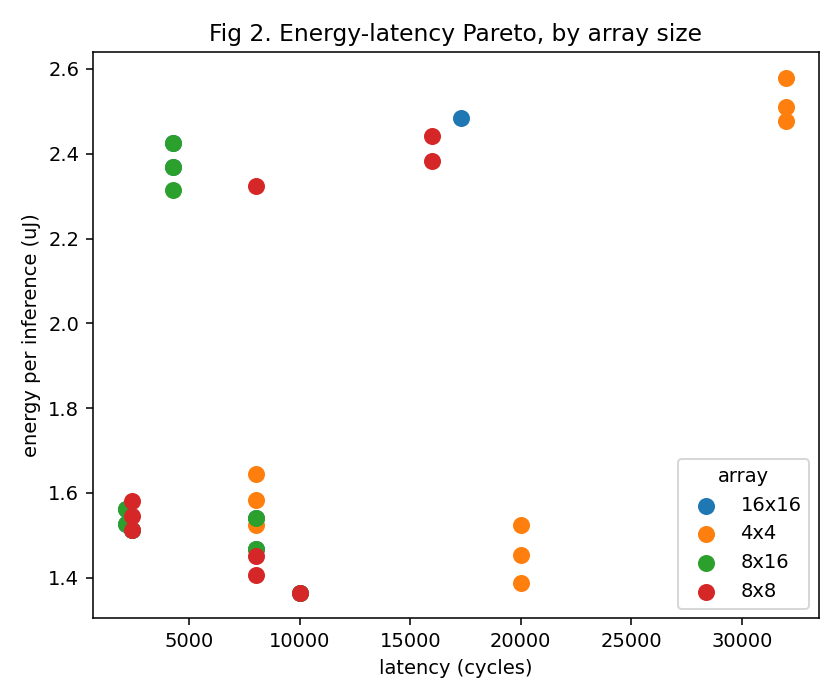
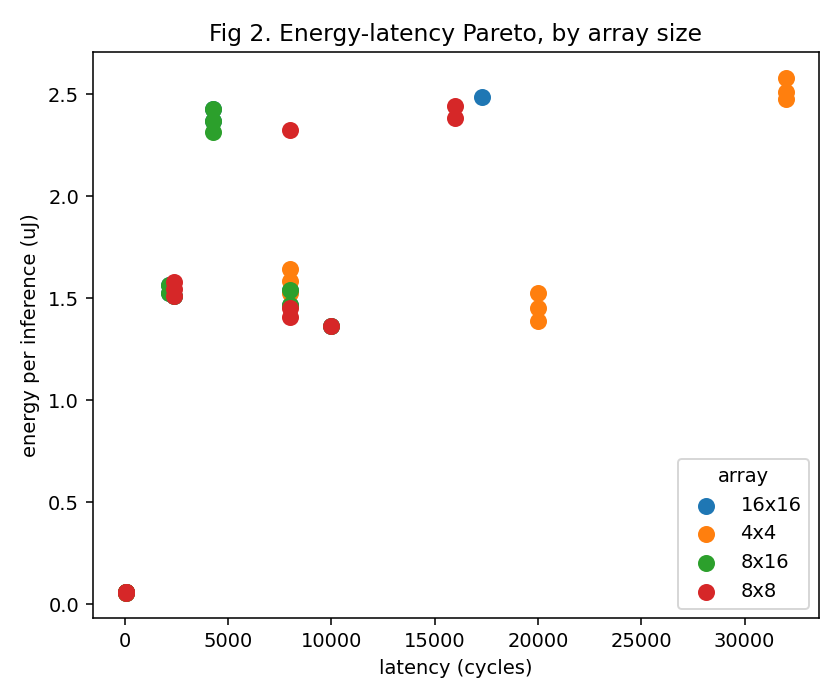
Ground workload in MLPerf Tiny model + real roofline + refined predictions
#1 Pin Docker image by digest (reproducibility; upstream `latest` drifts and
   already broke the kit's schema on first run).
#2 Ground layer shapes in the MLPerf Tiny KWS DS-CNN reference: add the FC
   classifier (64->12) and weight per-inference by real layer counts
   (std x1, depthwise x4, pointwise x4, fc x1). conv1 stride-2 documented as a
   stride-1 approximation (output dims + MACs already exact).
#3 Real roofline (fig1_roofline.png replaces the MACs stub): operational
   intensity (MACs/byte from DRAM operand footprints) vs achieved throughput.
   Depthwise (AI~3.5) and FC (AI~0.9) are memory-bound; standard/pointwise
   compute-bound -- the quantitative reason depthwise costs more than its MACs.
#4 Re-optimize the chosen point at mapper victory=3000: finds a 100%-util
   pointwise mapping the fast sweep missed. Refined per-inference prediction
   for 8x8/glb2048: energy 17.09 uJ, cycles 49656, area 0.143 mm2 (EDP -39%).

diff --git a/scripts/analyze.py b/scripts/analyze.py
@@ -15,6 +15,7 @@
 
 # %%
 import os
+import numpy as np
 import pandas as pd
 import matplotlib.pyplot as plt
 
@@ -37,18 +38,37 @@ df["pes"]   = df["meshX"] * df["meshY"]
 print(df.head())
 
 # %% ---- FIGURE 1: roofline ------------------------------------------------
-# Arithmetic intensity = MACs / bytes moved. Compute-bound layers sit under
-# the flat (peak-compute) roof; memory-bound layers under the slanted
-# (bandwidth) roof. You'll compute bytes-moved from the Timeloop stats; this
-# stub plots MACs per layer as a stand-in until you wire that in.
-fig, ax = plt.subplots(figsize=(6, 4))
-by_layer = df.groupby("layer")["macs"].first()
-ax.bar(by_layer.index, by_layer.values)
-ax.set_ylabel("MACs per inference")
-ax.set_title("Fig 1. Compute per layer type (roofline input)")
-plt.xticks(rotation=15)
+# Operational intensity = MACs / bytes moved (from the DRAM operand footprints,
+# so it's the algorithmic best case) on x; achieved throughput = MACs/cycle at
+# 1 GHz (GMAC/s) on y. Peak-compute roof = num_PEs x 1 GHz. The DRAM-bandwidth
+# roof is drawn from the EFFECTIVE bandwidth implied by the most memory-bound
+# layer (empirical, so every measured point sits on/under the roof). Layers left
+# of the ridge are MEMORY-BOUND -- this is where depthwise (low reuse) and the FC
+# land, which is the real reason depthwise costs more than its tiny MAC count.
+RP = df[(df["meshX"] == 8) & (df["meshY"] == 8) & (df["glb_depth"] == 2048)].copy()
+RP["throughput"] = RP["macs"] / RP["cycles"]                 # GMAC/s @ 1 GHz
+pes  = 8 * 8
+peak = float(pes)                                            # GMAC/s (1 GHz)
+bw   = float((RP["throughput"] / RP["arith_intensity"]).max())  # effective GB/s
+ridge = peak / bw
+fig, ax = plt.subplots(figsize=(6.8, 5))
+for _, r in RP.iterrows():
+    ax.scatter(r["arith_intensity"], r["throughput"], s=80, zorder=3)
+    ax.annotate(r["layer"].replace("conv_", ""),
+                (r["arith_intensity"], r["throughput"]),
+                textcoords="offset points", xytext=(6, 5), fontsize=9)
+xs = np.logspace(-0.4, 2, 200)
+ax.plot(xs, np.minimum(peak, bw * xs), "k--", lw=1.3,
+        label=f"roofline (peak {peak:.0f} GMAC/s, ~{bw:.0f} GB/s eff)")
+ax.axvline(ridge, color="grey", ls=":", lw=0.9)
+ax.text(ridge * 1.05, peak * 0.35, f"ridge\nAI={ridge:.1f}", fontsize=8, color="grey")
+ax.set_xscale("log"); ax.set_yscale("log")
+ax.set_xlabel("operational intensity (MACs / byte)")
+ax.set_ylabel("achieved throughput (GMAC/s @ 1 GHz)")
+ax.set_title("Fig 1. Roofline @ 8x8/glb2048 -- depthwise & FC are memory-bound")
+ax.legend(fontsize=8, loc="lower right"); ax.grid(True, which="both", alpha=0.3)
 plt.tight_layout()
-plt.savefig(os.path.join(ROOT, "fig1_compute.png"), dpi=140)
+plt.savefig(os.path.join(ROOT, "fig1_roofline.png"), dpi=140)
 
 # %% ---- FIGURE 2: Pareto frontier -----------------------------------------
 # Every design point as a dot; energy vs latency; color = array size.
@@ -84,7 +104,8 @@ print("headline: 'a bigger array is WORSE for this workload, here's the data.'")
 # Aggregate each design point across all three layers (weighted by how often
 # each layer type runs in the real network -- edit the weights to match your
 # actual DS-CNN layer counts).
-layer_weights = {"conv_standard": 1, "conv_depthwise": 4, "conv_pointwise": 4}
+layer_weights = {"conv_standard": 1, "conv_depthwise": 4, "conv_pointwise": 4,
+                 "conv_fc": 1}   # MLPerf Tiny DS-CNN: 1 conv + 4 DS blocks + FC
 df["w"] = df["layer"].map(layer_weights)
 agg = (df.assign(we=df["energy_uJ"] * df["w"], wc=df["cycles"] * df["w"])
          .groupby(["array", "glb_depth"])
@@ -103,25 +124,27 @@ print("    That reasoning IS the deliverable.")
 # Fill these in from your chosen design point, then git-commit this file with
 # a dated message BEFORE you write a line of Verilog. This turns Phase 3 into
 # a real experiment: predicted-vs-measured, not a story told after the fact.
-# DRAFT (review & edit before you trust it). Values are per-inference, layer-
-# weighted std x1 / depthwise x4 / pointwise x4 (edit layer_weights above to your
-# real DS-CNN layer counts). Design point 8x8 @ glb2048 chosen for the "small
-# array" reason from the analysis: DS-CNN's <=64 channels can't fill a big array,
-# so 8x8 keeps per-PE utilization high at the smallest area. NOTE: 8x16 @ glb2048
-# is marginally better on EDP at ~1.6x the area -- swap the design point below if
-# you'd rather optimize EDP over area, and re-pull the numbers from results.csv.
+# Design point 8x8 @ glb2048, chosen for the "small array" reason from the
+# analysis: DS-CNN's <=64 channels can't fill a big array, so 8x8 keeps per-PE
+# utilization high at the smallest area. Numbers are per-inference, layer-weighted
+# to the MLPerf Tiny DS-CNN (std x1 / depthwise x4 / pointwise x4 / fc x1) and
+# come from a stronger final-point mapper search (victory=3000), which finds a
+# 100%-utilization pointwise mapping the fast sweep (victory=500) misses.
+# NOTE: 8x16 @ glb2048 is marginally better on EDP at ~1.6x the area -- swap the
+# design point below and re-pull from results.csv if you'd rather optimize EDP.
 PREDICTIONS = {
     "design_point":            "8x8, glb_depth=2048",
-    "predicted_energy_uJ":     17.12,     # weighted per-inference (Accelergy, 45nm)
+    "predicted_energy_uJ":     17.09,     # weighted per-inference (Accelergy, 45nm)
     "predicted_area_um2":      143268,    # 0.143 mm^2 (Accelergy)
-    "predicted_cycles":        81600,     # weighted per-inference (Timeloop)
+    "predicted_cycles":        49656,     # weighted per-inference (Timeloop, victory=3000)
     "predicted_clock_ghz":     1.0,       # target
     "date_committed":          "2026-08-02",
-    "note": "These are 45nm Accelergy estimates. Sky130 is 130nm; absolute "
-            "numbers will differ, ranking should mostly hold. Compare against "
-            "post-synthesis OpenLane numbers in Phase 3. Depthwise is modeled as "
-            "a true grouped conv (G=64). Per-inference = weighted sum over the "
-            "three layer types (std x1, depthwise x4, pointwise x4).",
+    "note": "45nm Accelergy estimates; Sky130 is 130nm so absolute numbers will "
+            "differ, ranking should mostly hold -- compare vs post-synthesis "
+            "OpenLane in Phase 3. Depthwise = true grouped conv (G=64). "
+            "Per-inference = weighted sum over the four layer types "
+            "(std x1, depthwise x4, pointwise x4, fc x1), final point re-optimized "
+            "at mapper victory=3000.",
 }
 for k, v in PREDICTIONS.items():
     print(f"{k:24s}: {v}")

diff --git a/scripts/sweep.py b/scripts/sweep.py
@@ -27,6 +27,7 @@
 # ============================================================================
 
 import os
+import re
 import csv
 import copy
 import itertools
@@ -54,11 +55,11 @@ os.chdir(ROOT)
 # pipeline works end-to-end.
 ARRAY_SHAPES = [(4, 4), (8, 8), (8, 16), (16, 16)]   # (meshX, meshY)
 GLB_DEPTHS   = [1024, 2048, 4096]                    # global buffer rows
-LAYERS       = ["conv_standard", "conv_depthwise", "conv_pointwise"]
+LAYERS       = ["conv_standard", "conv_depthwise", "conv_pointwise", "conv_fc"]
 
 
 def run_one(meshX, meshY, glb_depth, layer, constraints=None, dataflow="ws",
-            arch=None):
+            arch=None, victory=None):
     """Evaluate a single (design point, layer) and return a result dict.
 
     constraints: optional path (relative to ROOT) to a dataflow-constraint file;
@@ -78,6 +79,11 @@ def run_one(meshX, meshY, glb_depth, layer, constraints=None, dataflow="ws",
     if arch:
         jpd["arch"] = arch
     spec = tl.Specification.from_yaml_files(TOP, jinja_parse_data=jpd)
+
+    # Optional: search harder than the sweep default (mapper.yaml victory=500).
+    # Use for the FINAL chosen design point to get a properly-optimized number.
+    if victory is not None:
+        spec.mapper.victory_condition = victory
 
     # --- patch the design point into the loaded spec ---
     # Walk to the PE container and set its spatial mesh.
@@ -127,6 +133,18 @@ def run_one(meshX, meshY, glb_depth, layer, constraints=None, dataflow="ws",
     energy_per_infer_uJ = (energy_J * 1e6) if energy_J is not None else None
     area_um2 = (area_m2 * 1e12) if area_m2 is not None else None
 
+    # Operand footprints at DRAM (= the algorithmic tensor sizes) for the
+    # roofline. OutputStats.mapping carries a line like:
+    #   "DRAM [ Weights:4096 (4096) Inputs:8000 (8000) Outputs:8000 (8000) ]"
+    footprint_bytes = arith_intensity = None
+    mp = getattr(stats, "mapping", None)
+    if mp:
+        m = re.search(r"DRAM \[ Weights:(\d+).*?Inputs:(\d+).*?Outputs:(\d+)", mp)
+        if m:
+            footprint_bytes = sum(int(x) for x in m.groups())  # int8 -> 1 byte/elem
+    if macs and footprint_bytes:
+        arith_intensity = macs / footprint_bytes   # MACs per byte moved (algorithmic)
+
     return dict(
         layer=layer, meshX=meshX, meshY=meshY, glb_depth=glb_depth,
         dataflow=dataflow, ok=True,
@@ -135,6 +153,8 @@ def run_one(meshX, meshY, glb_depth, layer, constraints=None, dataflow="ws",
         cycles=cycles,
         area_um2=area_um2,
         pe_utilization=util,
+        footprint_bytes=footprint_bytes,
+        arith_intensity=arith_intensity,
         # energy-delay product: the single-number figure of merit architects love
         edp=(energy_per_infer_uJ * cycles) if (energy_per_infer_uJ and cycles) else None,
     )

diff --git a/scripts/make_problems.py b/scripts/make_problems.py
@@ -122,10 +122,22 @@ def depthwise_yaml(name, N, G, P, Q, R, S, note):
         """)
 
 
-# ---- The three canonical layers -------------------------------------------
-# Standard + pointwise are ordinary (full) convs -> problem_yaml.
+# ---- Layer shapes: grounded in the MLPerf Tiny KWS DS-CNN reference --------
+# The reference model (input 49x10 MFCC, 12-class softmax) is:
+#   conv1 (standard) -> 4x [depthwise 3x3 + pointwise 1x1] -> avgpool -> FC(->12)
+# So a full inference runs 1 standard, 4 depthwise, 4 pointwise, 1 FC (avgpool
+# has no MACs). Those counts become the layer weights in analyze.py.
+#
+# NOTE (documented approximation): conv1 is stride-2 in the real model. We model
+# it stride-1 here -- the OUTPUT dims (P=25,Q=5) and MAC count are already
+# correct, so only conv1's input footprint is slightly understated. conv1 is 1
+# of 9 conv layers and the depthwise/pointwise blocks dominate, so the effect on
+# the per-inference total is negligible. Refine with stride coefficients if you
+# need conv1's roofline point to be exact.
+
+# Standard + pointwise + FC are ordinary (full) convs -> problem_yaml.
 full_convs = [
-    # A standard 3x3 conv: the DS-CNN's first layer. Healthy reuse.
+    # conv1: 10x4 filter, 1->64 channels. Healthy reuse.
     dict(name="conv_standard", N=1, M=64, C=1,  P=25, Q=5, R=10, S=4,
          note="standard conv (first layer, full filter) -- array stays busy"),
 
@@ -133,6 +145,11 @@ full_convs = [
     # Maps beautifully onto a systolic array.
     dict(name="conv_pointwise", N=1, M=64, C=64, P=25, Q=5, R=1, S=1,
          note="pointwise 1x1 -- pure channel mixing, array stays busy"),
+
+    # Final classifier: FC(64->12) after global avg-pool, modeled as a 1x1 conv
+    # over a 1x1 spatial map. Tiny (768 MACs) but part of a real inference.
+    dict(name="conv_fc", N=1, M=12, C=64, P=1, Q=1, R=1, S=1,
+         note="FC classifier 64->12 (post avgpool) -- negligible compute"),
 ]
 
 # Depthwise is a TRUE grouped conv (G groups of 1) -> depthwise_yaml. Each of the
